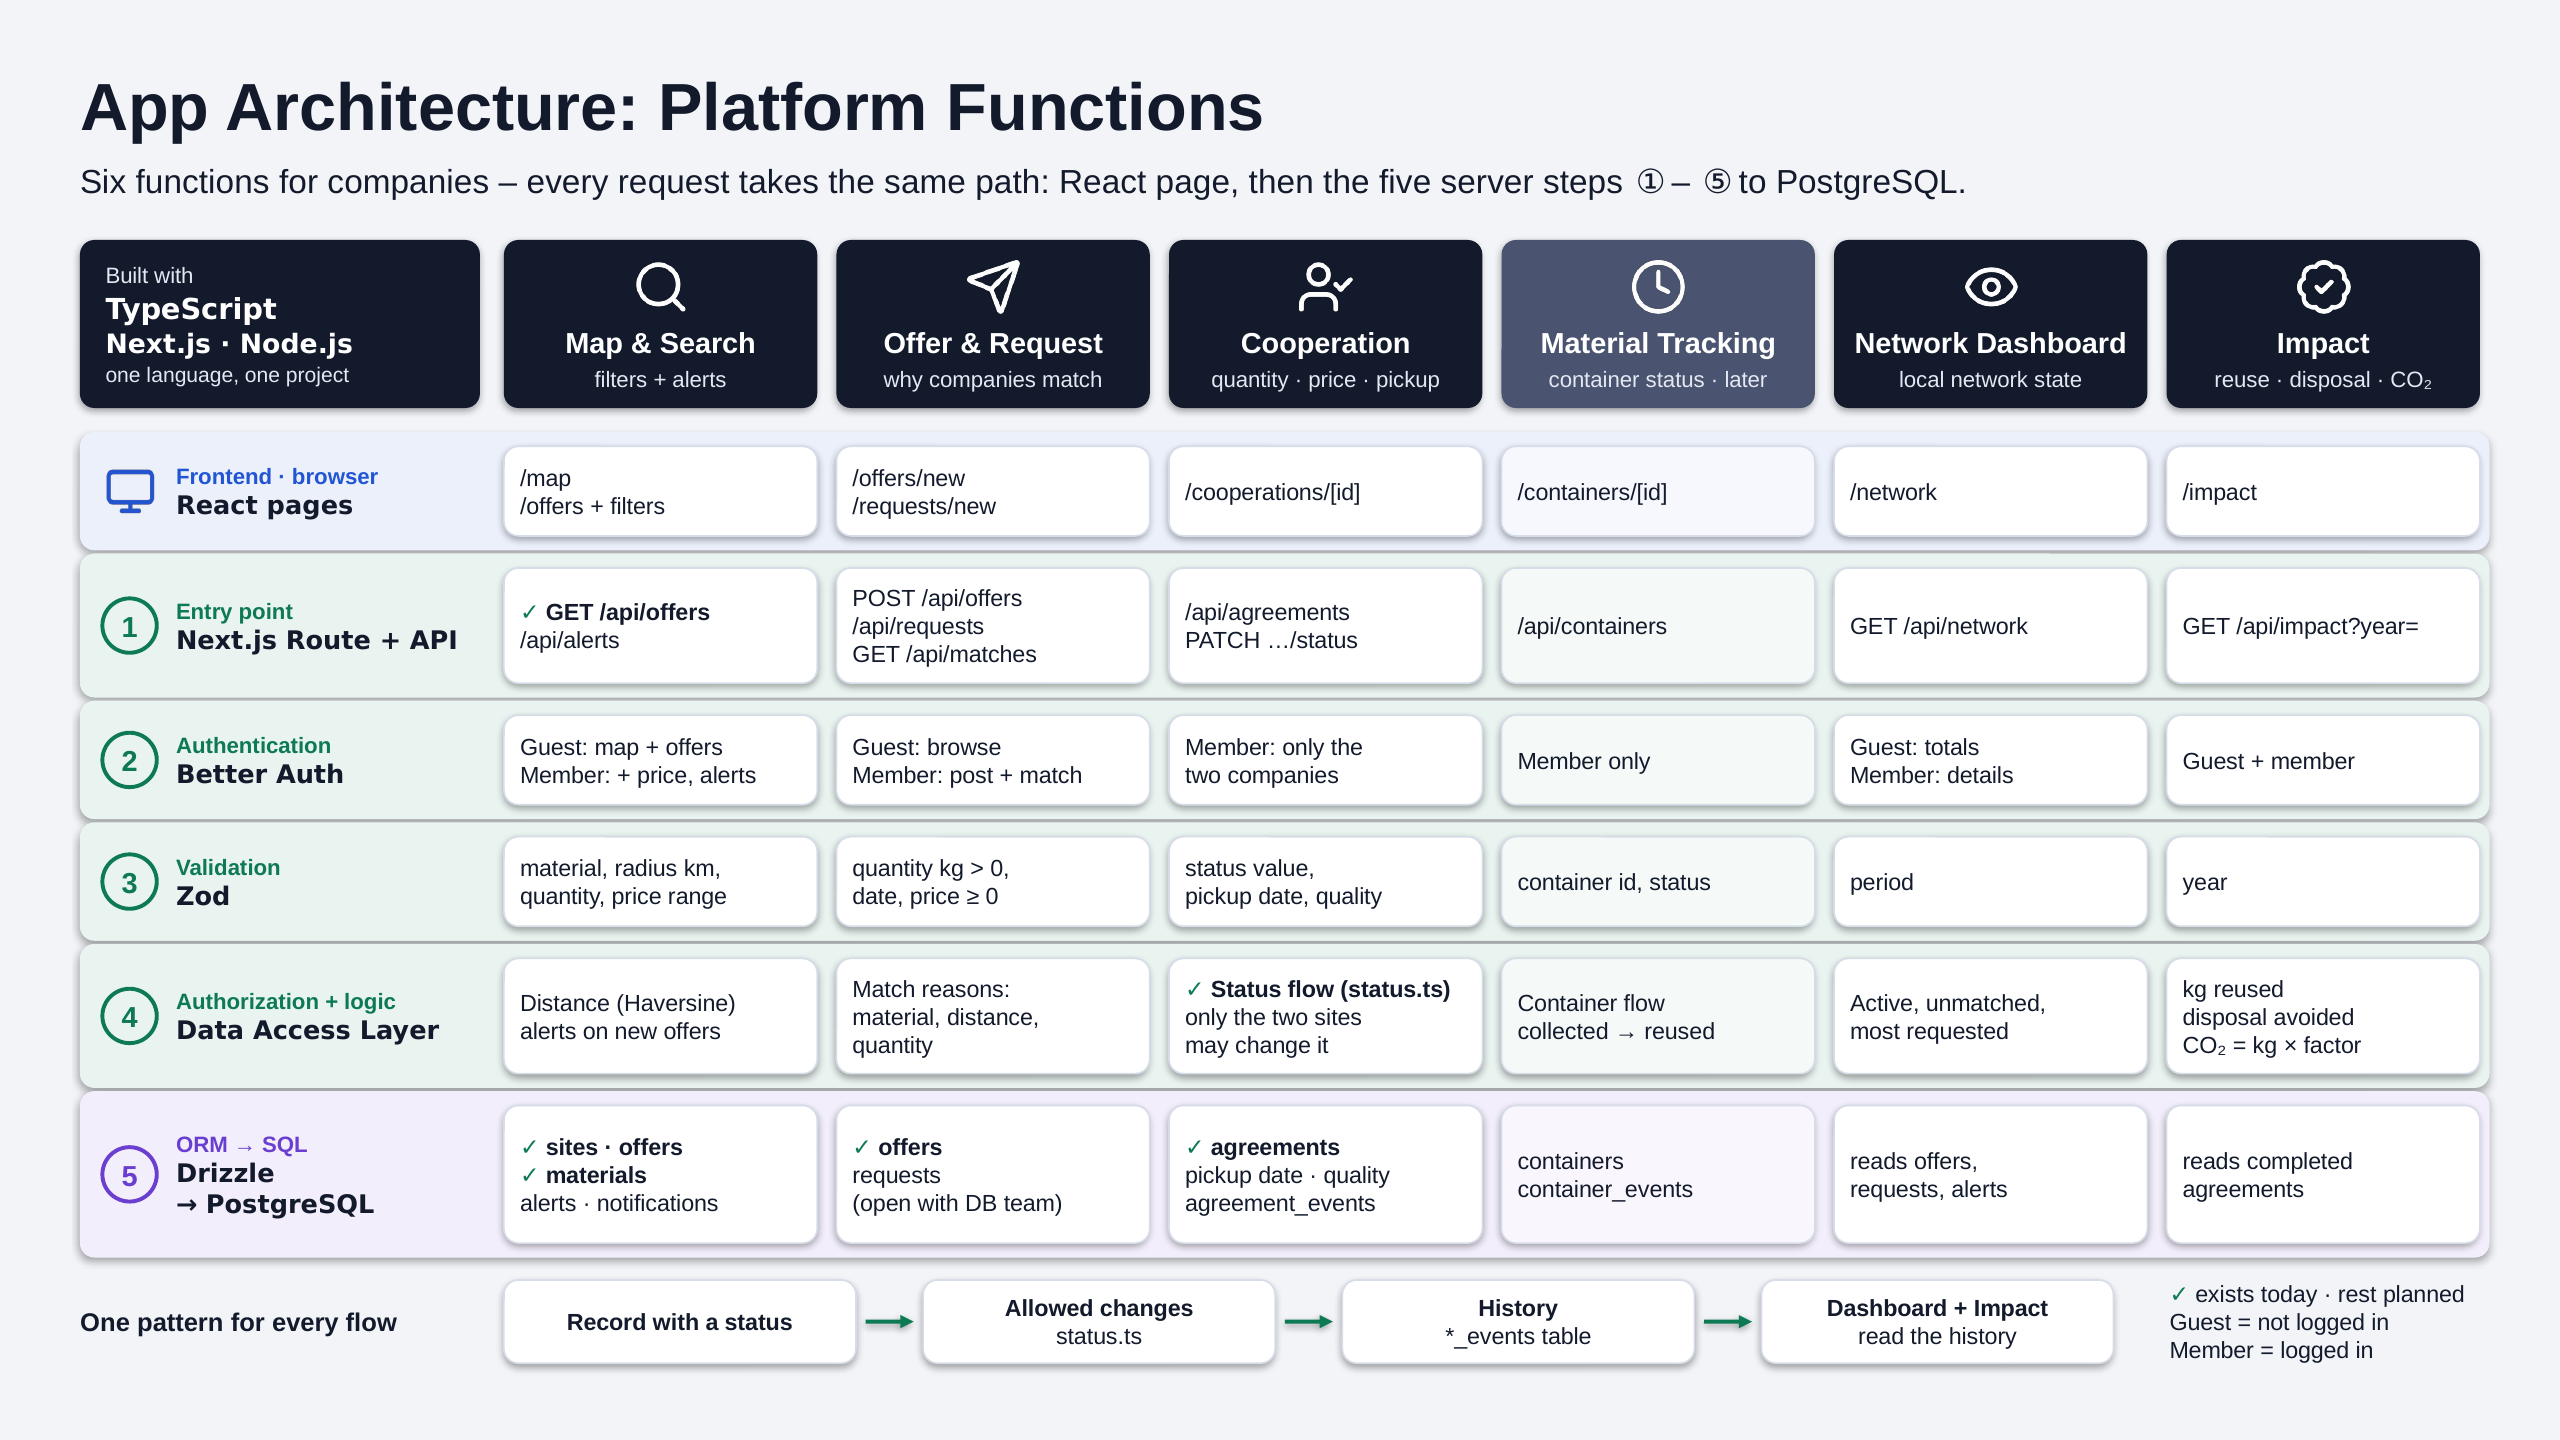
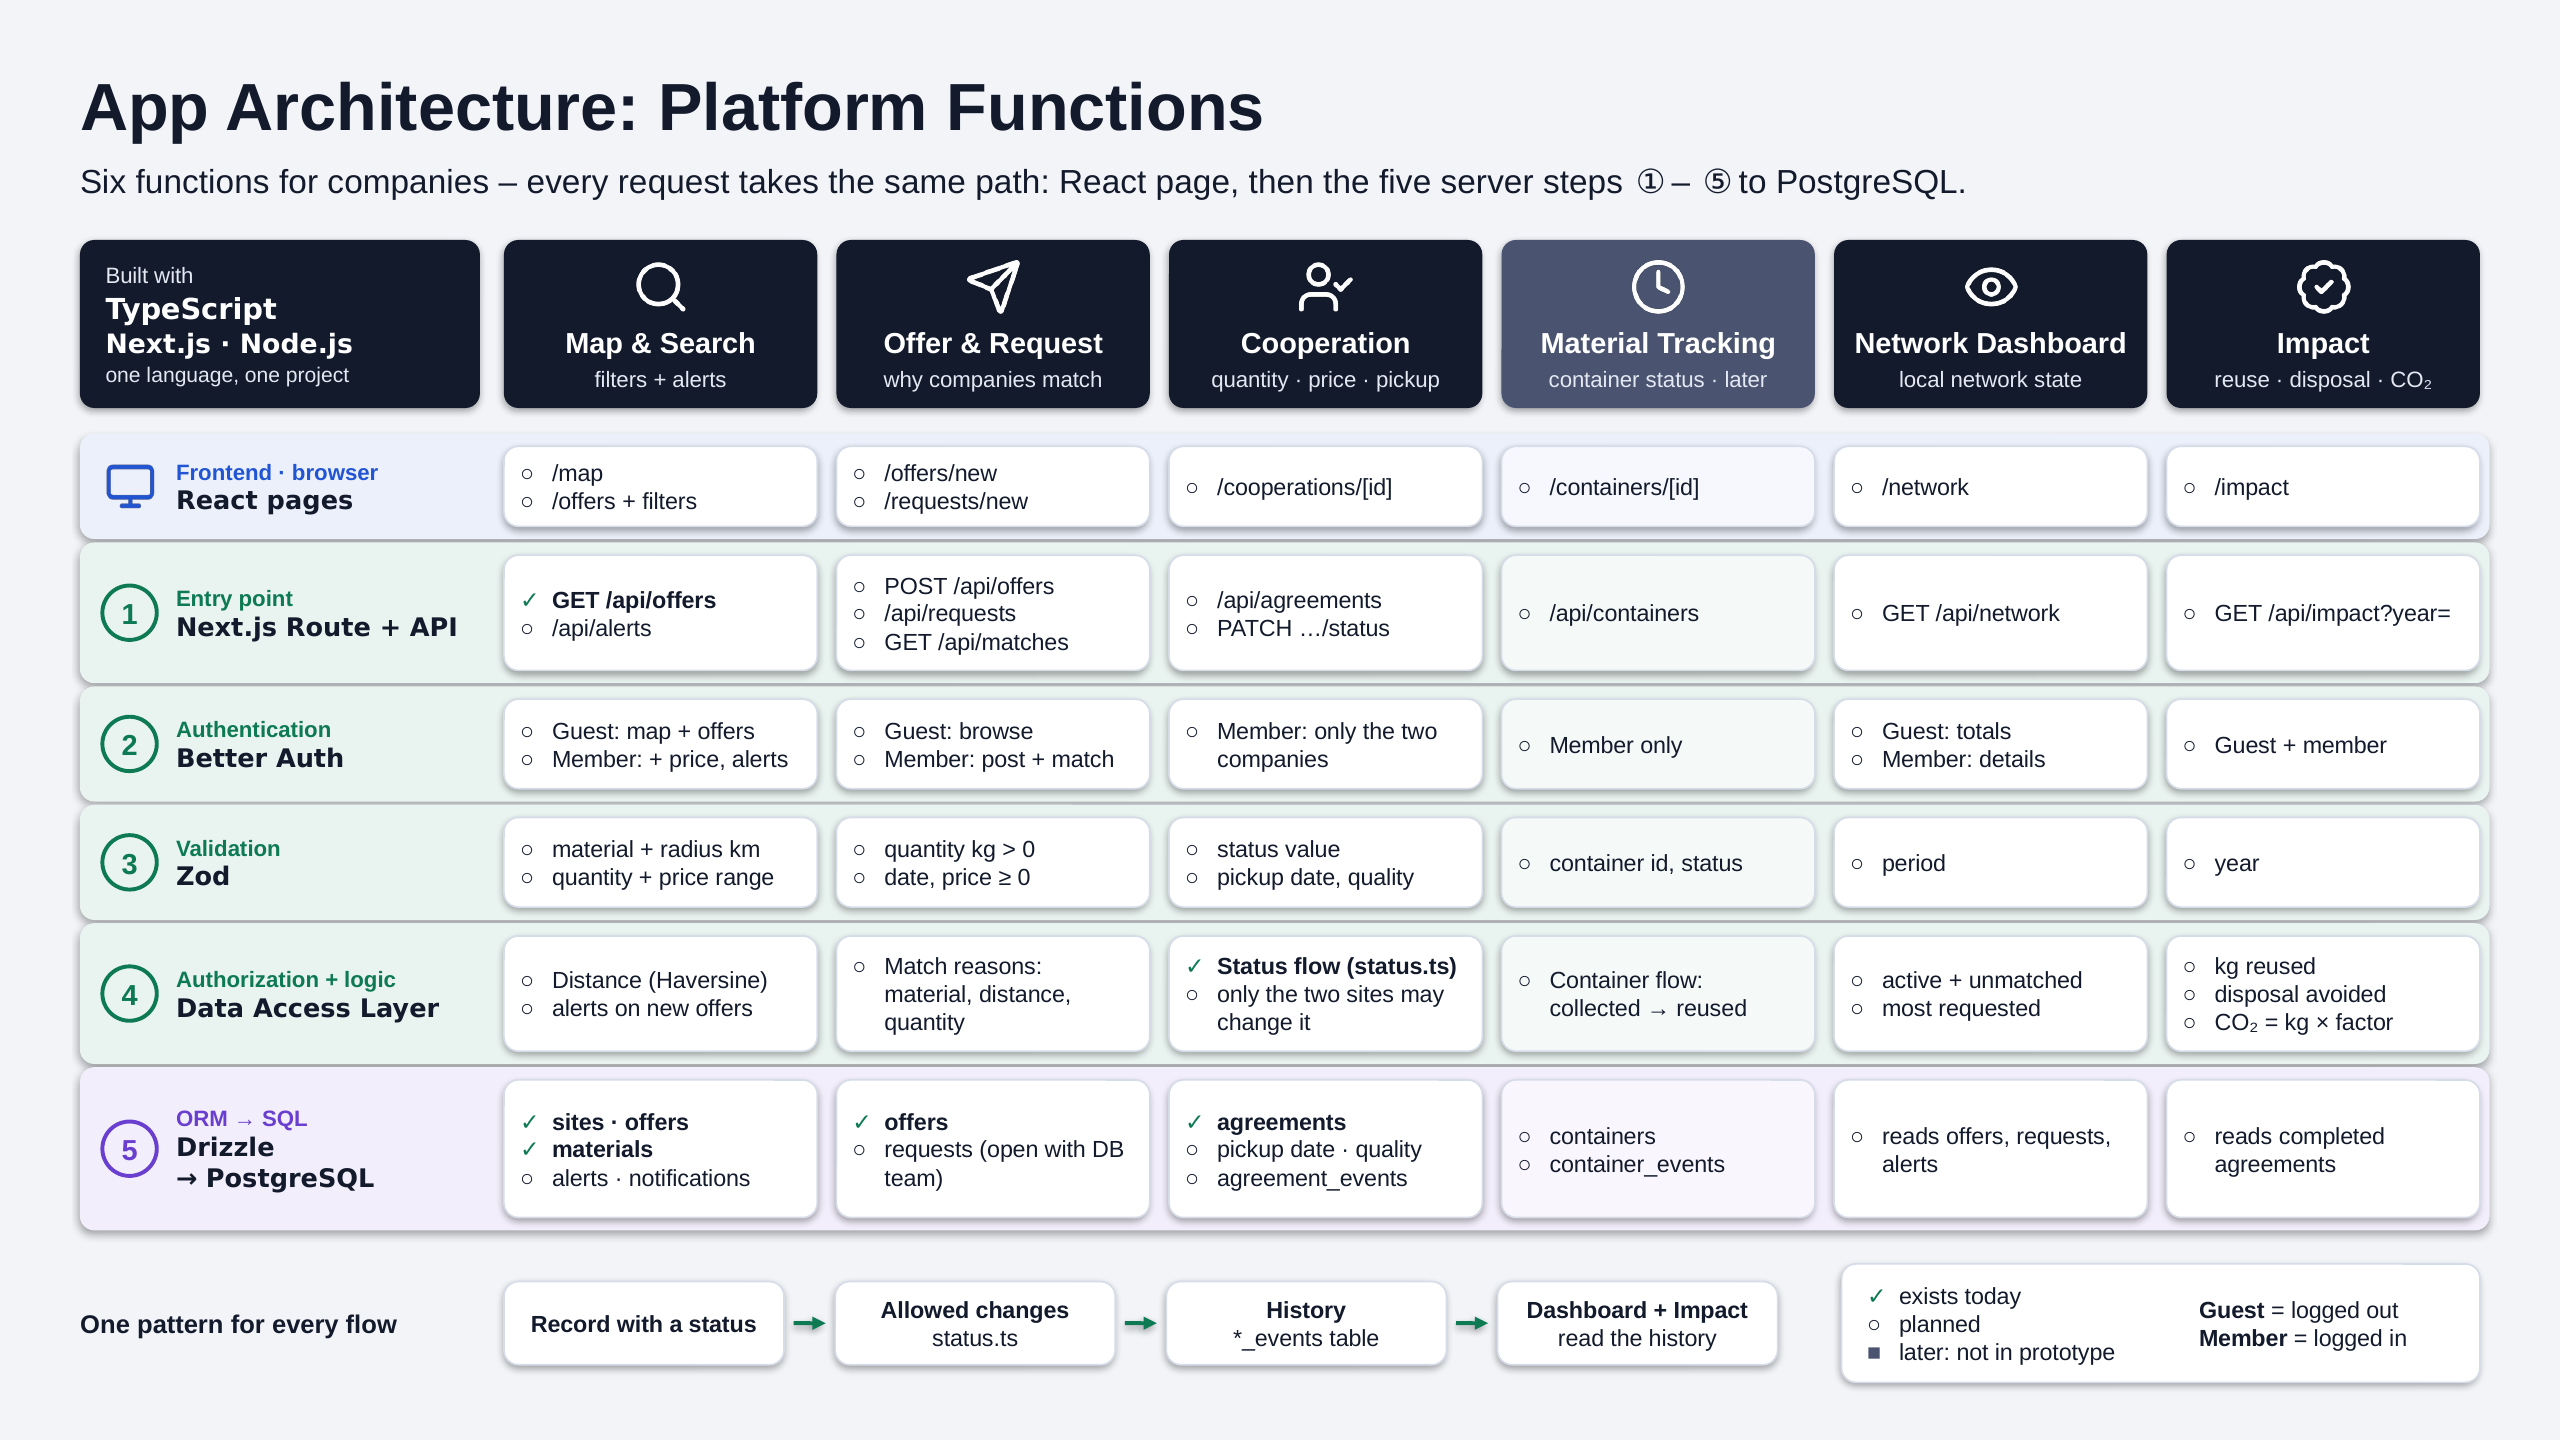
docs: mark planned items on the architecture slide, legend bottom right
- every cell item starts with a mark: check = exists today, circle = planned,
  hanging indent so wrapped lines align with the text
- legend as a box bottom right: exists/planned/later, guest/member
- slightly tighter rows and pattern boxes to make room

Changed region(s): [[0.0312, 0.3125, 0.9688, 0.9688], [0.0312, 0.9062, 0.1562, 0.9375]]

diff --git a/scripts/build_slide_functions.py b/scripts/build_slide_functions.py
@@ -46,7 +46,7 @@ FUNCTIONS = [
 # Zeilen = Weg einer Anfrage wie Folie 1/2: Frontend, dann die 5 Stationen auf dem Server.
 # (Nummer oder Icon, Rolle, Werkzeug, Farbe, Zeilenhöhe, je Funktion die Zeilen; „✓ “ = gibt es heute schon)
 LAYERS = [
-    ("monitor", "Frontend · browser", "React pages", S1, 0.62, [
+    ("monitor", "Frontend · browser", "React pages", S1, 0.56, [
         ["/map", "/offers + filters"], ["/offers/new", "/requests/new"], ["/cooperations/[id]"],
         ["/containers/[id]"], ["/network"], ["/impact"]]),
     (1, "Entry point", "Next.js Route + API", S2, 0.78, [
@@ -56,25 +56,25 @@ LAYERS = [
         ["GET /api/impact?year="]]),
     (2, "Authentication", "Better Auth", S2, 0.62, [
         ["Guest: map + offers", "Member: + price, alerts"], ["Guest: browse", "Member: post + match"],
-        ["Member: only the", "two companies"], ["Member only"], ["Guest: totals", "Member: details"],
+        ["Member: only the two companies"], ["Member only"], ["Guest: totals", "Member: details"],
         ["Guest + member"]]),
     (3, "Validation", "Zod", S2, 0.62, [
-        ["material, radius km,", "quantity, price range"], ["quantity kg > 0,", "date, price ≥ 0"],
-        ["status value,", "pickup date, quality"], ["container id, status"], ["period"], ["year"]]),
+        ["material + radius km", "quantity + price range"], ["quantity kg > 0", "date, price ≥ 0"],
+        ["status value", "pickup date, quality"], ["container id, status"], ["period"], ["year"]]),
     (4, "Authorization + logic", "Data Access Layer", S2, 0.78, [
         ["Distance (Haversine)", "alerts on new offers"],
-        ["Match reasons:", "material, distance,", "quantity"],
-        ["✓ Status flow (status.ts)", "only the two sites", "may change it"],
-        ["Container flow", "collected → reused"],
-        ["Active, unmatched,", "most requested"],
+        ["Match reasons: material, distance, quantity"],
+        ["✓ Status flow (status.ts)", "only the two sites may change it"],
+        ["Container flow: collected → reused"],
+        ["active + unmatched", "most requested"],
         ["kg reused", "disposal avoided", "CO₂ = kg × factor"]]),
     (5, "ORM → SQL", "Drizzle\n→ PostgreSQL", S3, 0.92, [
         ["✓ sites · offers", "✓ materials", "alerts · notifications"],
-        ["✓ offers", "requests", "(open with DB team)"],
+        ["✓ offers", "requests (open with DB team)"],
         ["✓ agreements", "pickup date · quality", "agreement_events"],
         ["containers", "container_events"],
-        ["reads offers,", "requests, alerts"],
-        ["reads completed", "agreements"]]),
+        ["reads offers, requests, alerts"],
+        ["reads completed agreements"]]),
 ]
 
 PATTERN = ["Record with a status", "Allowed changes\nstatus.ts", "History\n*_events table",
@@ -83,21 +83,37 @@ PATTERN = ["Record with a status", "Allowed changes\nstatus.ts", "History\n*_eve
 X0, LABEL_W, RIGHT = 0.5, 2.5, W - 0.5
 CX0, GAP = X0 + LABEL_W + 0.15, 0.12
 COL_W = (RIGHT - CX0 - 5 * GAP) / 6
-GAP_Y = 0.14
+GAP_Y = 0.12
 
 
 def col_x(i):
     return CX0 + i * (COL_W + GAP)
 
 
-def cell_lines(items):
+DONE, PLANNED = "✓", "○"  # gibt es heute · geplant
+MARK_W = 0.2  # Zoll: Breite der Marke, Folgezeilen beginnen bündig mit dem Text
+
+
+def mark_run(mark, size=10.5):
+    return run(mark + "\t", size, True, S2 if mark == DONE else INK)
+
+
+def hanging(tb):
+    """Hängender Einzug: Marke links, Text und Folgezeilen bündig dahinter."""
+    for p in tb.text_frame.paragraphs:
+        p_pr = p._p.get_or_add_pPr()
+        p_pr.set("marL", str(Inches(MARK_W)))
+        p_pr.set("indent", str(-Inches(MARK_W)))
+    return tb
+
+
+def cell_text(s, x, y, w, h, items):
+    """Je Eintrag ein Absatz: ✓ gibt es heute (fett) · ○ geplant."""
     paras = []
     for t in items:
-        if t.startswith("✓ "):
-            paras.append([run("✓ ", 10.5, True, S2), run(t[2:], 10.5, True)])
-        else:
-            paras.append([run(t, 10.5)])
-    return paras
+        done = t.startswith(DONE + " ")
+        paras.append([mark_run(DONE if done else PLANNED), run(t[2:] if done else t, 10.5, done)])
+    return hanging(text(s, x, y, w, h, paras, anchor=MSO_ANCHOR.MIDDLE))
 
 
 def stack_card(s, y, h):
@@ -141,14 +157,14 @@ def layer_rows(s, y):
         for i, items in enumerate(cells):
             later = not FUNCTIONS[i][3]
             box(s, col_x(i), y + 0.03, COL_W, h - 0.06, tint(color, 0.04) if later else SURFACE, line=LINE)
-            text(s, col_x(i) + 0.1, y + 0.06, COL_W - 0.2, h - 0.12, cell_lines(items), anchor=MSO_ANCHOR.MIDDLE)
+            cell_text(s, col_x(i) + 0.1, y + 0.06, COL_W - 0.2, h - 0.12, items)
         y += h + GAP_Y
     return y
 
 
-def pattern_row(s, y):
-    text(s, X0, y, LABEL_W, 0.52, [[run("One pattern for every flow", 11.5, True)]], anchor=MSO_ANCHOR.MIDDLE)
-    bw, aw, h = 2.2, 0.42, 0.52
+def pattern_row(s, y, h=0.52):
+    text(s, X0, y, LABEL_W, h, [[run("One pattern for every flow", 11.5, True)]], anchor=MSO_ANCHOR.MIDDLE)
+    bw, aw = 1.75, 0.32
     x = CX0
     for i, label in enumerate(PATTERN):
         box(s, x, y, bw, h, SURFACE, line=LINE)
@@ -158,12 +174,21 @@ def pattern_row(s, y):
         if i < len(PATTERN) - 1:
             arrow(s, x + 0.06, y + h / 2, x + aw - 0.06, y + h / 2, S2)
             x += aw
-    lx = x + 0.35
-    text(s, lx, y, RIGHT - lx, h, [
-        [run("✓ ", 10.5, True, S2), run("exists today · rest planned", 10.5)],
-        [run("Guest = not logged in", 10.5)],
-        [run("Member = logged in", 10.5)],
-    ], anchor=MSO_ANCHOR.MIDDLE)
+    legend(s, x + 0.4, y + h / 2)
+
+
+def legend(s, x, mid):
+    """Legende unten rechts als Kasten: links Marken + „later“, rechts Gast/Mitglied."""
+    w, h = RIGHT - x, 0.74
+    y = mid - h / 2
+    box(s, x, y, w, h, SURFACE, line=LINE)
+    c1 = x + 0.16
+    c2, cw = x + w * 0.56, w * 0.44 - 0.16
+    hanging(text(s, c1, y, c2 - c1, h, [[mark_run(DONE), run("exists today", 10.5)],
+                                               [mark_run(PLANNED), run("planned", 10.5)],
+                                               [run("■\t", 10.5, True, LATER_FILL), run("later: not in prototype", 10.5)]], anchor=MSO_ANCHOR.MIDDLE))
+    text(s, c2, y, cw, h, [[run("Guest", 10.5, True), run(" = logged out", 10.5)],
+                                           [run("Member", 10.5, True), run(" = logged in", 10.5)]], anchor=MSO_ANCHOR.MIDDLE)
 
 
 def main():
@@ -180,7 +205,7 @@ def main():
     stack_card(s, 1.5, 1.05)
     function_cards(s, 1.5, 1.05)
     y = layer_rows(s, 2.76)
-    pattern_row(s, y + 0.06)
+    pattern_row(s, y + 0.25)
     prs.core_properties.title = "App Architecture: Platform Functions"
     prs.core_properties.language = "en-US"
     with tempfile.TemporaryDirectory() as tmp:
